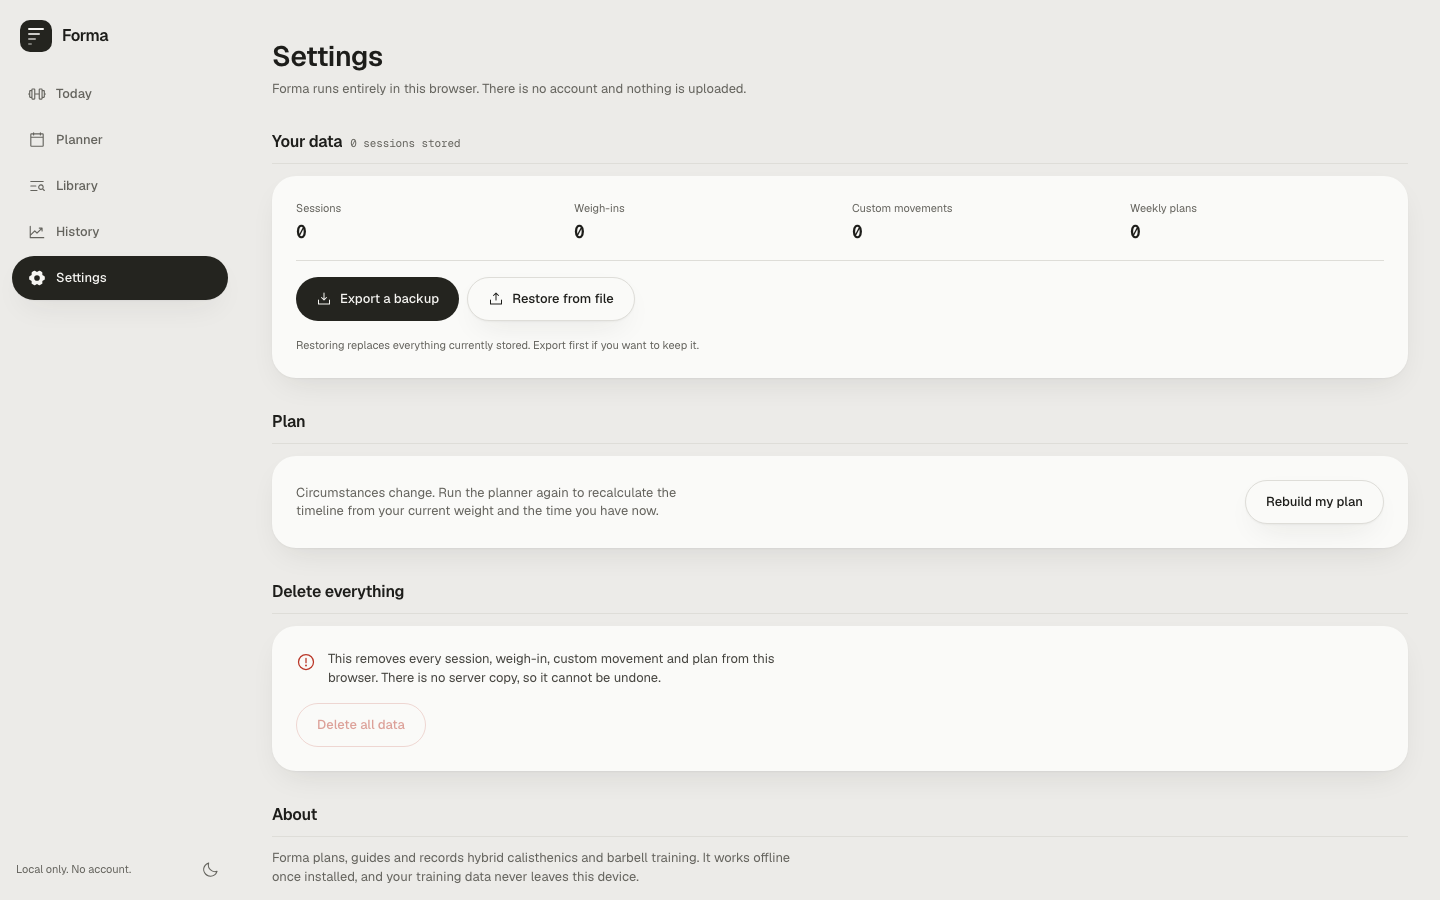
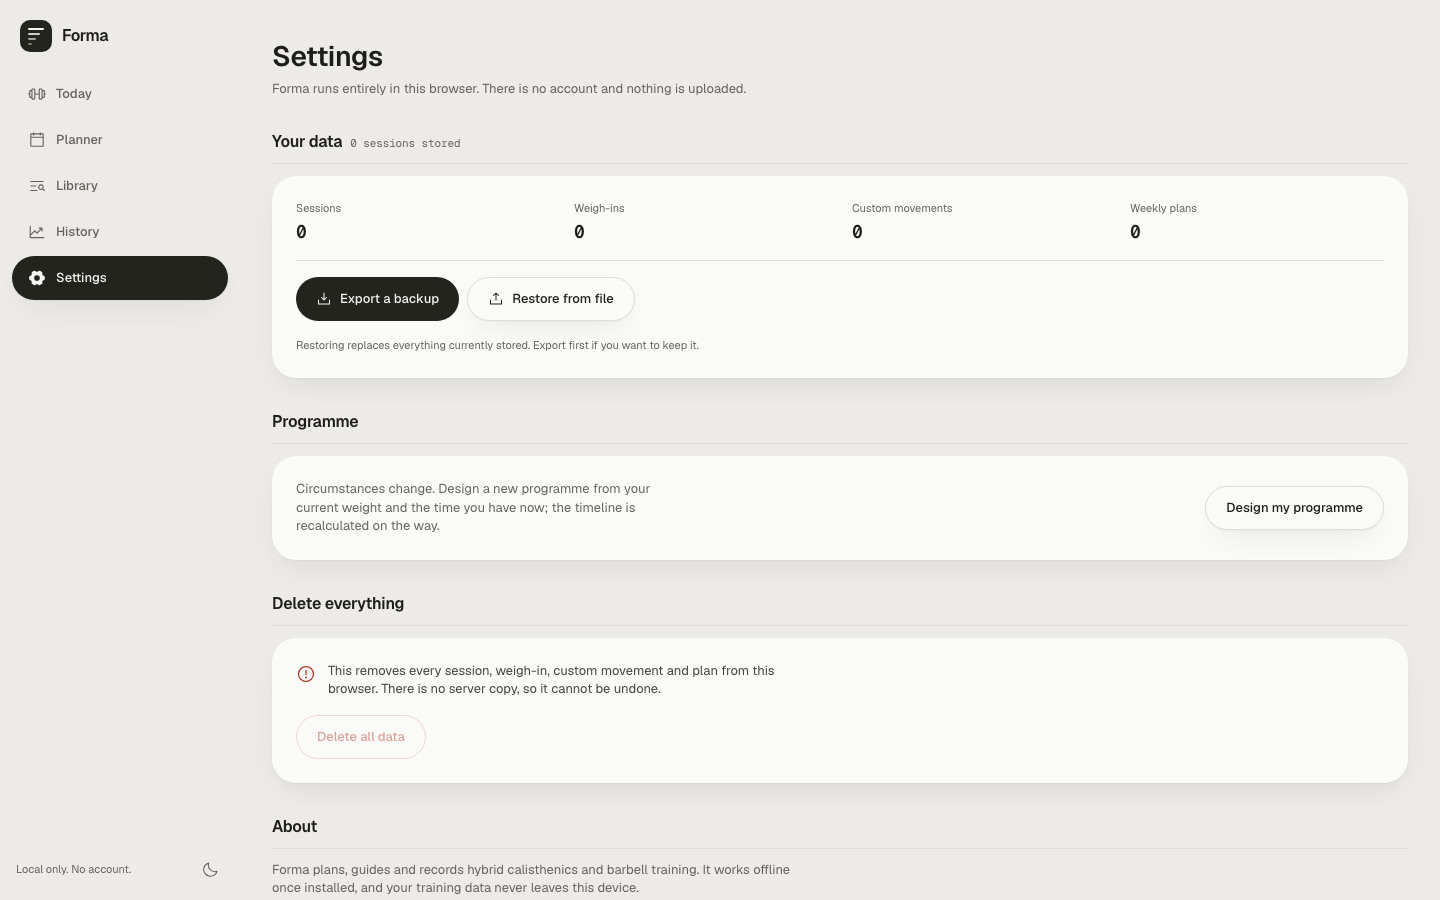
fix(planner): one New plan entry with an explained choice, one label per intent
"Generate a plan" and "New plan" sat side by side in the planner header doing
different things (coach-designed programme vs empty hand-built week) with
labels that read as the same thing. Meanwhile the coach intent went by four
names across the app: Generate a plan, Build my plan, Rebuild my plan, Design
my programme.

- The header keeps a single New plan button. It opens a chooser that explains
  both paths in a sentence each: "Design my programme" (the coach designs a
  periodised programme you can copy here) and "Start an empty week" (name it
  and fill each day yourself). The name form is the second step of the manual
  path only.
- The coach intent is labelled "Design my programme" everywhere it appears:
  Today's empty state, the planner empty state, Settings and the missing-plan
  page. DESIGN.md now records the vocabulary rule: a programme is designed and
  dated, a plan is the editable week.
- The audit walk clicks through the chooser's manual path.

Verified live; tsc, oxlint, 42 tests and both walk scripts pass.

diff --git a/src/routes/Planner.tsx b/src/routes/Planner.tsx
@@ -74,7 +74,7 @@ export function PlannerPage() {
   }
   const [selectedDay, setSelectedDay] = useState<DayOfWeek>(todayDow)
   const [newPlanName, setNewPlanName] = useState('')
-  const [creating, setCreating] = useState(false)
+  const [creating, setCreating] = useState<'choose' | 'name' | null>(null)
   const [renameValue, setRenameValue] = useState<string | null>(null)
   const [pickerOpen, setPickerOpen] = useState(false)
   const [configuring, setConfiguring] = useState<PlannedExercise | null>(null)
@@ -114,7 +114,7 @@ export function PlannerPage() {
     if (!name) return
     setSelectedPlanId(createPlan(name))
     setNewPlanName('')
-    setCreating(false)
+    setCreating(null)
   }
 
   const dayExercises = useMemo(
@@ -135,7 +135,7 @@ export function PlannerPage() {
           action={
             <div className="flex flex-wrap items-center justify-center gap-2">
               <Button onClick={() => navigate({ to: '/onboarding' })}>
-                Build my plan
+                Design my programme
                 <ArrowRight size={16} weight="bold" />
               </Button>
               <Button variant="secondary" onClick={() => setSelectedPlanId(createPlan('My week'))}>
@@ -155,15 +155,10 @@ export function PlannerPage() {
         title="Planner"
         description="Lay out the week once. Today reads from it every morning."
         action={
-          <>
-            <Button variant="secondary" onClick={() => navigate({ to: '/onboarding' })}>
-              Generate a plan
-            </Button>
-            <Button onClick={() => setCreating(true)}>
-              <Plus size={16} weight="bold" />
-              New plan
-            </Button>
-          </>
+          <Button onClick={() => setCreating('choose')}>
+            <Plus size={16} weight="bold" />
+            New plan
+          </Button>
         }
       />
 
@@ -390,37 +385,73 @@ export function PlannerPage() {
         onClose={() => setConfiguring(null)}
       />
 
-      <Dialog open={creating} onOpenChange={setCreating}>
-        <DialogContent className="sm:max-w-sm">
-          <DialogHeader>
-            <DialogTitle>New plan</DialogTitle>
-            <DialogDescription>
-              A plan is one week that repeats. You can keep more than one.
-            </DialogDescription>
-          </DialogHeader>
-          <form
-            onSubmit={(e) => {
-              e.preventDefault()
-              handleCreate()
-            }}
-            className="flex flex-col gap-3"
-          >
-            <Input
-              label="Name"
-              value={newPlanName}
-              onChange={(e) => setNewPlanName(e.target.value)}
-              placeholder="Push pull legs"
-              autoFocus
-            />
-            <div className="flex justify-end gap-2">
-              <Button variant="ghost" onClick={() => setCreating(false)}>
-                Cancel
-              </Button>
-              <Button type="submit" disabled={!newPlanName.trim()}>
-                Create
-              </Button>
-            </div>
-          </form>
+      <Dialog open={creating !== null} onOpenChange={(open) => !open && setCreating(null)}>
+        <DialogContent className="sm:max-w-md">
+          {creating === 'choose' ? (
+            <>
+              <DialogHeader>
+                <DialogTitle>New plan</DialogTitle>
+                <DialogDescription>
+                  A plan is one week that repeats. Start it two ways.
+                </DialogDescription>
+              </DialogHeader>
+              <div className="flex flex-col gap-2">
+                <button
+                  type="button"
+                  onClick={() => {
+                    setCreating(null)
+                    void navigate({ to: '/onboarding' })
+                  }}
+                  className="flex flex-col gap-1 rounded-lg bg-surface-2 p-4 text-left transition-colors hover:bg-line/60"
+                >
+                  <span className="text-sm font-semibold text-ink">Design my programme</span>
+                  <span className="text-2xs leading-relaxed text-ink-3">
+                    Tell Forma your goal and the time you have. The coach designs a periodised
+                    programme you can copy here as a plan.
+                  </span>
+                </button>
+                <button
+                  type="button"
+                  onClick={() => setCreating('name')}
+                  className="flex flex-col gap-1 rounded-lg bg-surface-2 p-4 text-left transition-colors hover:bg-line/60"
+                >
+                  <span className="text-sm font-semibold text-ink">Start an empty week</span>
+                  <span className="text-2xs leading-relaxed text-ink-3">
+                    Name it and fill in each day yourself, movement by movement.
+                  </span>
+                </button>
+              </div>
+            </>
+          ) : (
+            <>
+              <DialogHeader>
+                <DialogTitle>Start an empty week</DialogTitle>
+              </DialogHeader>
+              <form
+                onSubmit={(e) => {
+                  e.preventDefault()
+                  handleCreate()
+                }}
+                className="flex flex-col gap-3"
+              >
+                <Input
+                  label="Name"
+                  value={newPlanName}
+                  onChange={(e) => setNewPlanName(e.target.value)}
+                  placeholder="Push pull legs"
+                  autoFocus
+                />
+                <div className="flex justify-end gap-2">
+                  <Button variant="ghost" onClick={() => setCreating(null)}>
+                    Cancel
+                  </Button>
+                  <Button type="submit" disabled={!newPlanName.trim()}>
+                    Create
+                  </Button>
+                </div>
+              </form>
+            </>
+          )}
         </DialogContent>
       </Dialog>
 

diff --git a/src/routes/Today.tsx b/src/routes/Today.tsx
@@ -368,7 +368,7 @@ function TodayOverview() {
       ) : (
         <Panel padding="lg" className="flex flex-col gap-4">
           <div className="flex flex-col gap-1.5">
-            <h2 className="text-xl text-ink">Start with a plan</h2>
+            <h2 className="text-xl text-ink">Start with a programme</h2>
             <p className="max-w-[52ch] text-sm text-ink-3">
               Tell Forma your goal, your weight and how much time you actually have. It works out a
               realistic timeline and builds the weeks around it.
@@ -376,7 +376,7 @@ function TodayOverview() {
           </div>
           <div className="flex flex-wrap gap-2">
             <Button size="lg" onClick={() => navigate({ to: '/onboarding' })}>
-              Build my plan
+              Design my programme
               <ArrowRight size={18} weight="bold" />
             </Button>
             <Button size="lg" variant="secondary" onClick={startWorkout}>

diff --git a/src/routes/Settings.tsx b/src/routes/Settings.tsx
@@ -131,14 +131,14 @@ export function SettingsPage() {
         </Panel>
       </Section>
 
-      <Section title="Plan">
+      <Section title="Programme">
         <Panel padding="lg" className="flex flex-wrap items-center justify-between gap-4">
           <p className="max-w-[46ch] text-sm text-ink-3">
-            Circumstances change. Run the planner again to recalculate the timeline from your
-            current weight and the time you have now.
+            Circumstances change. Design a new programme from your current weight and the time
+            you have now; the timeline is recalculated on the way.
           </p>
           <Button variant="secondary" onClick={() => navigate({ to: '/onboarding' })}>
-            Rebuild my plan
+            Design my programme
           </Button>
         </Panel>
       </Section>

diff --git a/src/routes/GeneratedPlan.tsx b/src/routes/GeneratedPlan.tsx
@@ -77,7 +77,7 @@ export function GeneratedPlanPage() {
         <EmptyState
           title="This programme no longer exists"
           description="It was deleted, or the link points at a programme from a different browser."
-          action={<Button onClick={() => navigate({ to: '/onboarding' })}>Build a new plan</Button>}
+          action={<Button onClick={() => navigate({ to: '/onboarding' })}>Design my programme</Button>}
         />
       </div>
     )

diff --git a/DESIGN.md b/DESIGN.md
@@ -200,6 +200,11 @@ English throughout, plain sentences, no em-dashes, no implementation detail on
 screen. The persisted Spanish domain vocabulary is mapped to display strings in
 `src/lib/labels.ts` and never rendered raw.
 
+Two nouns, never mixed: a **programme** is designed (by the coach or the
+standard generator) and carries a dated calendar; a **plan** is the editable
+week that repeats in the planner. The intent "go design a programme" is always
+labelled "Design my programme", on every surface.
+
 ## Do
 
 - Do reserve the aurora material for hero data tiles.
